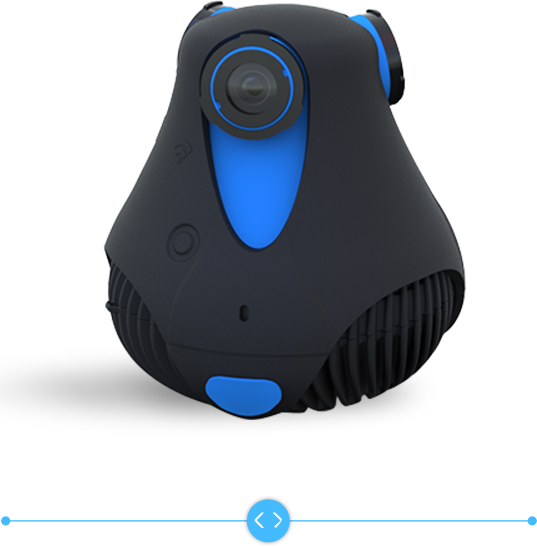
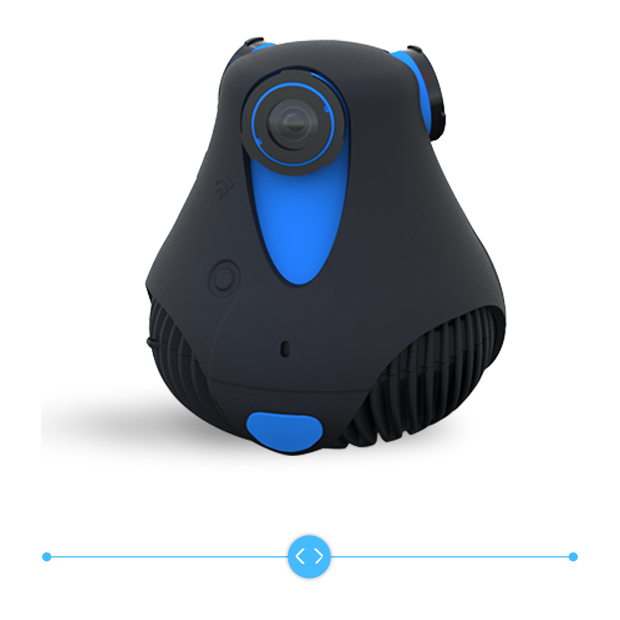
function section done

diff --git a/less/_top-part1.less b/less/_top-part1.less
@@ -23,7 +23,7 @@
       text-align: center;
 
       img {
-        max-width: 540px;
+        max-width: 620px;
         width: 100%;
         vertical-align: middle;
         display: inline-block;
@@ -96,37 +96,161 @@
       }
     }
     &:nth-child(3) {
+      &> div:first-child {
+        background: url('../img/function-bg3.jpg');
+        background-size: cover;
+      }
+      .content {
+        .properties {
 
-        &> div:first-child {
-          background: url('../img/function-bg3.jpg');
-          background-size: cover;
+          div {
+            border: none;
+            border-radius: 0;
+            height: 60px;
+            padding: 0;
+            width: auto;
+            display: inline-block;
+            vertical-align: middle;
+
+            img {
+              max-height: 100%;
+              float: left;
+            }
+          }
         }
+      }
+    }
+  }
+}
+@media (max-width: 750px) {
+  #function {
+    .slide-function {
+      height: auto;
+      overflow: visible;
+      .col-xs-10 {
+        padding: 0 40px;
+        width: 100% !important;
+      }
+      .col-xs-offset-1 {
+        margin-left: 0% !important;
+      }
+      .content {
+        padding: 80px 0;
+        text-align: left !important;
+        .title {
+          .pxToEm(58);
+          font-weight: 700;
+        }
+        .body {
+          .pxToEm(26);
+        }
+      }
+    }
+  }
+}
+@media (max-width: 768px) {
+  #function {
+    .slide-function {
+      height: 480px;
+      overflow: visible;
+      .col-xs-10 {
+        width: 83.3333%;
+      }
+      .col-xs-offset-1 {
+        margin-left: 8.3333%;
+      }
+      .col-xs-12 {
+        width: 100%;
+      }
+      .image {
+        img {
+          max-width: 320px;
+        }
+      }
+      .content {
+        text-align: center;
+        .title {
+          margin-bottom: 35px;
+        }
+        .properties {
+          text-align: center;
+          margin-top: 35px;
 
+          div {
+            float: none;
+            display: inline-block;
+            vertical-align: middle;
+          }
+        }
+      }
+    }
+  }
+}
+@media (min-width:769px) and (max-width:1024px) {
+  #function {
+    .slide-function {
+      &> div {
+        padding: 0;
+      }
+      .image {
+        img {
+          max-width: 480px;
+        }
+      }
+      .content {
+        .title {
+          .pxToEm(30);
+        }
+        .properties {
+          div {
+            height: 83px;
+            width: 83px;
+            text-align: center;
+            margin-right: 10px;
+            padding: 10px;
+          }
+        }
+      }
+      &:nth-child(3) {
         .content {
           .properties {
 
             div {
-              border: none;
-              border-radius: 0;
-              height: auto;
-              width: auto;
-              display: inline-block;
-              vertical-align: middle;
+              height: 50px;
             }
           }
         }
-      .image {
-        img {
-          max-width: 620px;
+      }
+    }
+  }
+}
+@media (min-width: 1025px) and (max-width: 1280px) {
+  #function {
+    .slide-function {
+      //&> div {
+      //  padding: 0;
+      //}
+      &:nth-child(2) {
+        .title {
+          margin-right: 55px;
         }
       }
+      &:nth-child(3) {
+        .content {
+          .properties {
+            div {
+              height: 50px;
+            }
+          }
+        }
       }
+    }
   }
 }
 
 //.giroptic-header {
-//   display: none;
-// }
+//  display: none;
+//}
 //.section {
 //  display: none !important;
 //}
@@ -138,3 +262,4 @@
 //#main {
 //  padding: 0;
 //}
+

diff --git a/public/css/style.css b/public/css/style.css
@@ -1344,7 +1344,7 @@ button {
   text-align: center;
 }
 #function .slide-function .image img {
-  max-width: 540px;
+  max-width: 620px;
   width: 100%;
   vertical-align: middle;
   display: inline-block;
@@ -1403,13 +1403,101 @@ button {
 #function .slide-function:nth-child(3) .content .properties div {
   border: none;
   border-radius: 0;
-  height: auto;
+  height: 60px;
+  padding: 0;
   width: auto;
   display: inline-block;
   vertical-align: middle;
 }
-#function .slide-function:nth-child(3) .image img {
-  max-width: 620px;
+#function .slide-function:nth-child(3) .content .properties div img {
+  max-height: 100%;
+  float: left;
+}
+@media (max-width: 750px) {
+  #function .slide-function {
+    height: auto;
+    overflow: visible;
+  }
+  #function .slide-function .col-xs-10 {
+    padding: 0 40px;
+    width: 100% !important;
+  }
+  #function .slide-function .col-xs-offset-1 {
+    margin-left: 0% !important;
+  }
+  #function .slide-function .content {
+    padding: 80px 0;
+    text-align: left !important;
+  }
+  #function .slide-function .content .title {
+    font-size: 5.8em;
+    font-weight: 700;
+  }
+  #function .slide-function .content .body {
+    font-size: 2.6em;
+  }
+}
+@media (max-width: 768px) {
+  #function .slide-function {
+    height: 480px;
+    overflow: visible;
+  }
+  #function .slide-function .col-xs-10 {
+    width: 83.3333%;
+  }
+  #function .slide-function .col-xs-offset-1 {
+    margin-left: 8.3333%;
+  }
+  #function .slide-function .col-xs-12 {
+    width: 100%;
+  }
+  #function .slide-function .image img {
+    max-width: 320px;
+  }
+  #function .slide-function .content {
+    text-align: center;
+  }
+  #function .slide-function .content .title {
+    margin-bottom: 35px;
+  }
+  #function .slide-function .content .properties {
+    text-align: center;
+    margin-top: 35px;
+  }
+  #function .slide-function .content .properties div {
+    float: none;
+    display: inline-block;
+    vertical-align: middle;
+  }
+}
+@media (min-width: 769px) and (max-width: 1024px) {
+  #function .slide-function > div {
+    padding: 0;
+  }
+  #function .slide-function .image img {
+    max-width: 480px;
+  }
+  #function .slide-function .content .title {
+    font-size: 3em;
+  }
+  #function .slide-function .content .properties div {
+    height: 83px;
+    width: 83px;
+    text-align: center;
+    margin-right: 10px;
+    padding: 10px;
+  }
+  #function .slide-function:nth-child(3) .content .properties div {
+    height: 50px;
+  }
+}
+@media (min-width: 1025px) and (max-width: 1280px) {
+  #function .slide-function:nth-child(2) .title {
+    margin-right: 55px;
+  }
+  #function .slide-function:nth-child(3) .content .properties div {
+    height: 50px;
+  }
 }
 #pave2 {
   background-color: #44bbff;
